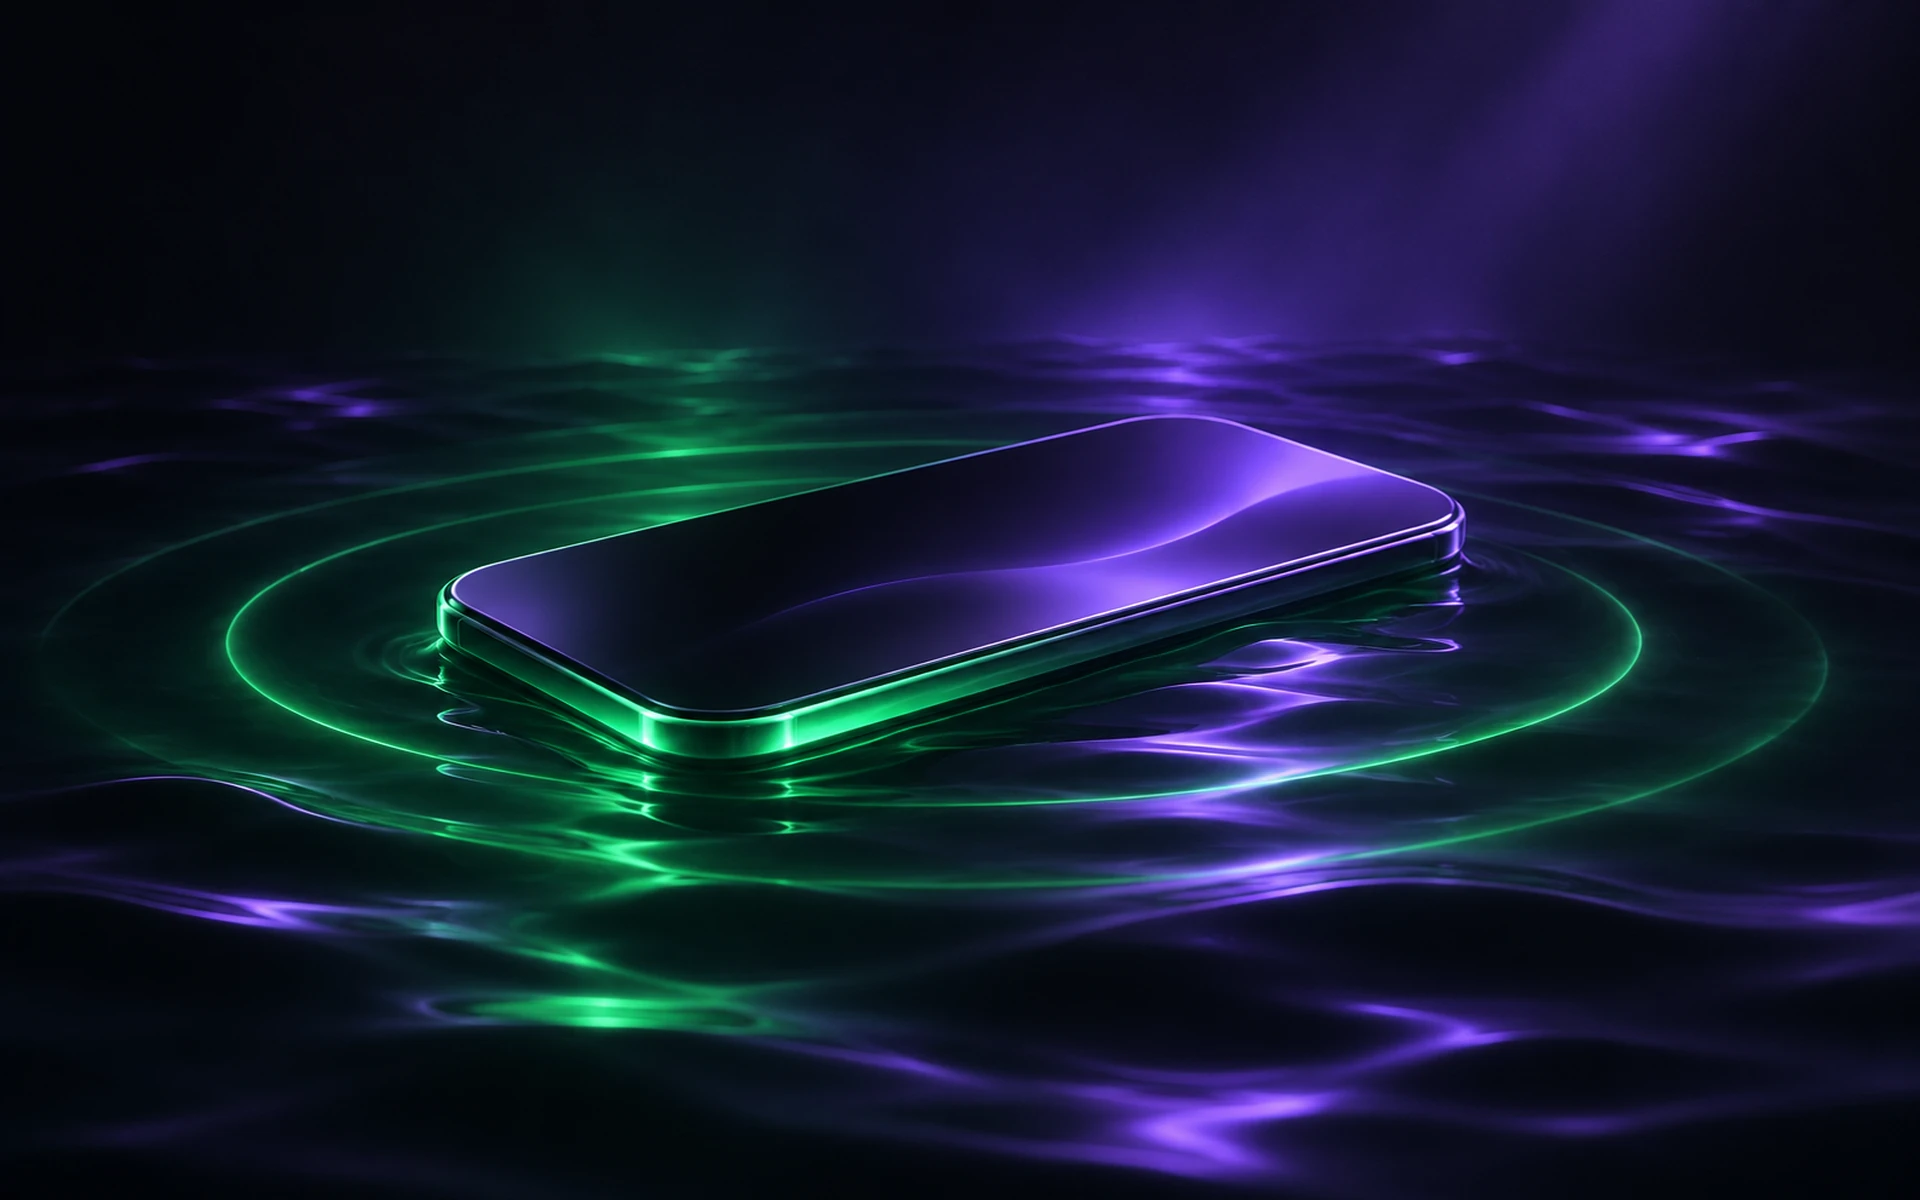
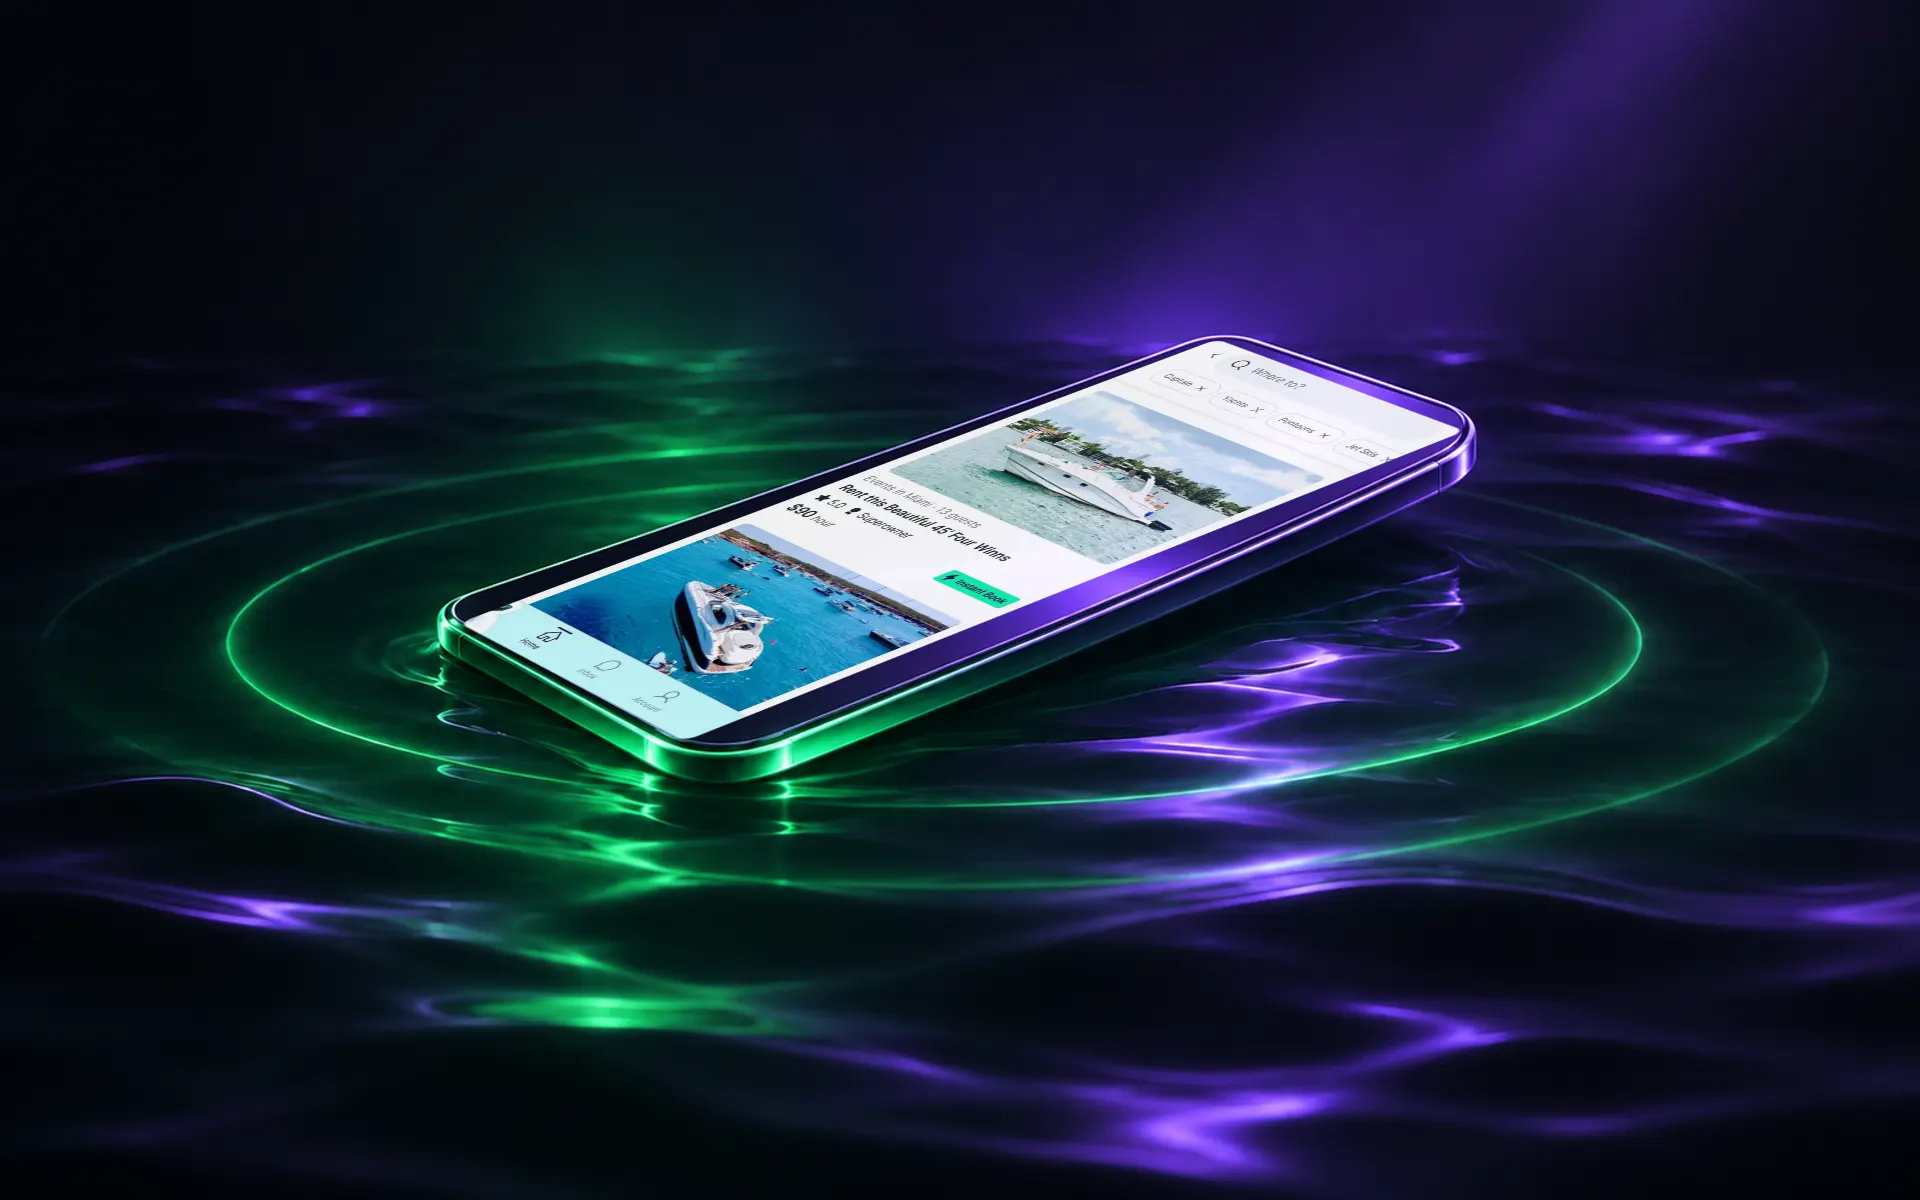
Case covers now show the real app screens inside each phone
Claude-Session: https://claude.ai/code/session_01Vtjf76FNGurEo4p8wd5BqL

Changed region(s): [[0.2188, 0.2775, 0.7812, 0.6783], [0.5938, 0.6167, 0.6562, 0.6475], [0.125, 0.6475, 0.1562, 0.6783]]

diff --git a/src/lib/media.ts b/src/lib/media.ts
@@ -40,24 +40,24 @@ export const media = {
     "An abstract floating phone whose screen glows with green and violet fluid.",
     "§1 (9:16 crop)",
   ),
-  caseWer1: img("cases/case-wer1-cover@2x.webp", 1920, 1200, "Abstract glass waveform ribbon rising from a phone, lit in green.", "§4a"),
+  caseWer1: img("cases/case-wer1-cover@2x.webp", 1920, 1200, "A phone showing the WeR1 music player under a glowing glass waveform.", "§4a"),
   caseGetmyboat: img(
     "cases/case-getmyboat-cover@2x.webp",
     1920,
     1200,
-    "A phone floating on a calm night ocean with a green signal ring.",
+    "A phone showing GetMyBoat listings, floating on a calm night ocean.",
     "§4b",
   ),
-  caseSendy: img("cases/case-sendy-cover@2x.webp", 1920, 1200, "Glowing parcels travelling along green routes between four hubs.", "§4c"),
-  caseKazi: img("cases/case-kazi-cover@2x.webp", 1920, 1200, "Glass tool icons orbiting a phone, tied to it by threads of light.", "§4d"),
+  caseSendy: img("cases/case-sendy-cover@2x.webp", 1920, 1200, "A phone showing the Sendy delivery booking screen at the centre of four glowing hubs.", "§4c"),
+  caseKazi: img("cases/case-kazi-cover@2x.webp", 1920, 1200, "A phone showing Kazi's service request screen, orbited by glass tools.", "§4d"),
   caseShackle: img(
     "cases/case-shackle-cover@2x.webp",
     1920,
     1200,
-    "A keycard of light dissolving into a phone beside a glass door handle.",
+    "A keycard dissolving into a phone showing Shackle's mobile key, beside a glass door.",
     "§4e",
   ),
-  case360score: img("cases/case-360score-ai-cover@2x.webp", 1920, 1200, "A wireframe football of green data points above a phone.", "§4f"),
+  case360score: img("cases/case-360score-ai-cover@2x.webp", 1920, 1200, "A wireframe football hovering above a phone showing 360Score live results.", "§4f"),
   labOffline: img("lab/lab-offline-first-poster@2x.webp", 1200, 1200, "Glass cubes queued behind a broken signal wave.", "§5.1"),
   labDroidnet: img("lab/lab-droidnet-poster@2x.webp", 1200, 1200, "A network graph with nodes flickering online and offline.", "§5.2"),
   labColdstart: img("lab/lab-cold-start-poster@2x.webp", 1200, 1200, "Timeline bars sliced shorter by a beam of light.", "§5.3"),
